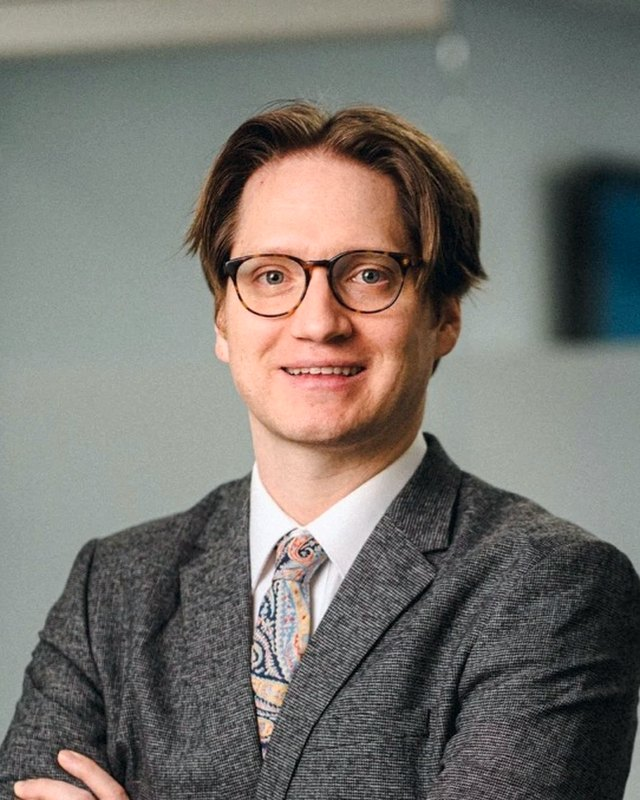
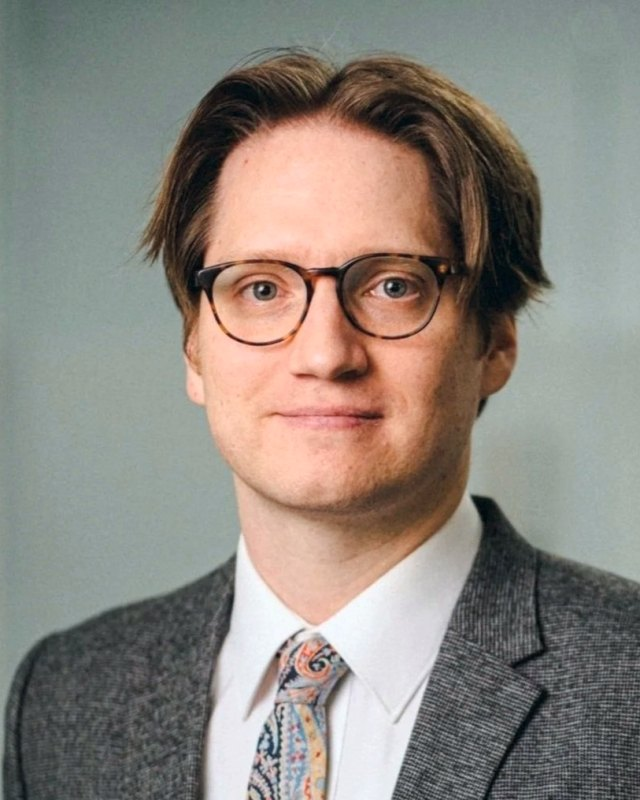
Headshots: use the newer mc2b.com photos, match face brightness, lighten Trevor
Replace every headshot except Trevor's with the current version from
mc2b.com, cropped to the same 4:5 frame with eyes at the same height.
Match face brightness across everyone so the black-and-white grid looks
even. Keep Trevor's own new headshot, lightened to match. Add Christian
Michalik's photo.

Claude-Session: https://claude.ai/code/session_01NrYH4UXaV5UAbBiD2NHMHQ

diff --git a/CONTENT-NOTES.md b/CONTENT-NOTES.md
@@ -20,8 +20,8 @@ Text for practice pages and bios was copied word for word from mc2b.com on Sept.
 - Headshots: `scripts/import-headshots.sh` copies every photo from Squarespace into the site itself. Run it once on a Mac (see the top of the script), then commit and push.
 
 ## Needs a decision
-- Headshots (Nov. 11, 2026): every headshot was re-cropped to the same 4:5 frame (640 × 800) with the face the same size and the eyes at the same height, and given matched brightness, contrast, and color balance. Trevor’s two photos were also lightened slightly. Alan Bradshaw, Brett Gilmore, Chad Derum, and Candice Vogel are a little tighter than the rest because their original files are cropped close; wider originals from the photographer would fix that. The unedited files are in the Git history.
-- Christian Michalik: the live site shows a stock photo, not a headshot. His bio shows initials until a real photo is added to `public/people/christian-j-michalik.jpg`.
+- Headshots (Nov. 11, 2026): every photo except Trevor’s was replaced with the newer version now on mc2b.com (downloaded Nov. 11; originals kept in `photos/mc2b-current/` on Trevor’s Mac, not in Git). All were cropped to the same 4:5 frame (640 × 800) with the eyes at the same height, and the face brightness was matched across everyone, so faces look the same in black and white. Trevor kept his own new headshot, lightened to match. The mc2b.com files are landscape crops, so the faces fill more of the frame than before; wider originals from the photographer would allow a looser crop.
+- Christian Michalik: his headshot comes from mc2b.com (added Nov. 11, 2026).
 - Confirm Carson Fuller has left the firm.
 - Bankruptcy page is new draft copy for the bankruptcy lawyers to rewrite.
 - Business Litigation lists all 18 lawyers, because every bio includes business or commercial litigation.

diff --git a/src/content/people/christian-j-michalik.md b/src/content/people/christian-j-michalik.md
@@ -6,7 +6,7 @@ phone: 801-363-5678
 email: cmichalik@mc2b.com
 practiceAreas: [Business Litigation, Commercial Litigation, Municipal Government Defense]
 oldPath: /christian-j-michalik
-draftNote: The current site uses a stock photo (not a headshot) for Christian. Add his real headshot.
+photo: /people/christian-j-michalik.jpg
 ---
 
 Christian Michalik is an associate at Manning Curtis Bradshaw & Bednar. Christian hails from Michigan but considers Utah to be home. Prior to joining Manning Curtis Bradshaw & Bednar, Christian was an Assistant Attorney General for the Utah Attorney General’s Office, where he represented the State in various civil rights matters. Before returning to Utah, Christian practiced at two large national law firms in Chicago, where he represented local and state entities in high stakes civil rights actions involving damages claims exceeding $20 million, as well as national athletic organizations in high profile discrimination and abuse cases. Additionally, Christian represented large insurance carriers in environmental disputes with potential exposures exceeding $250 million.
